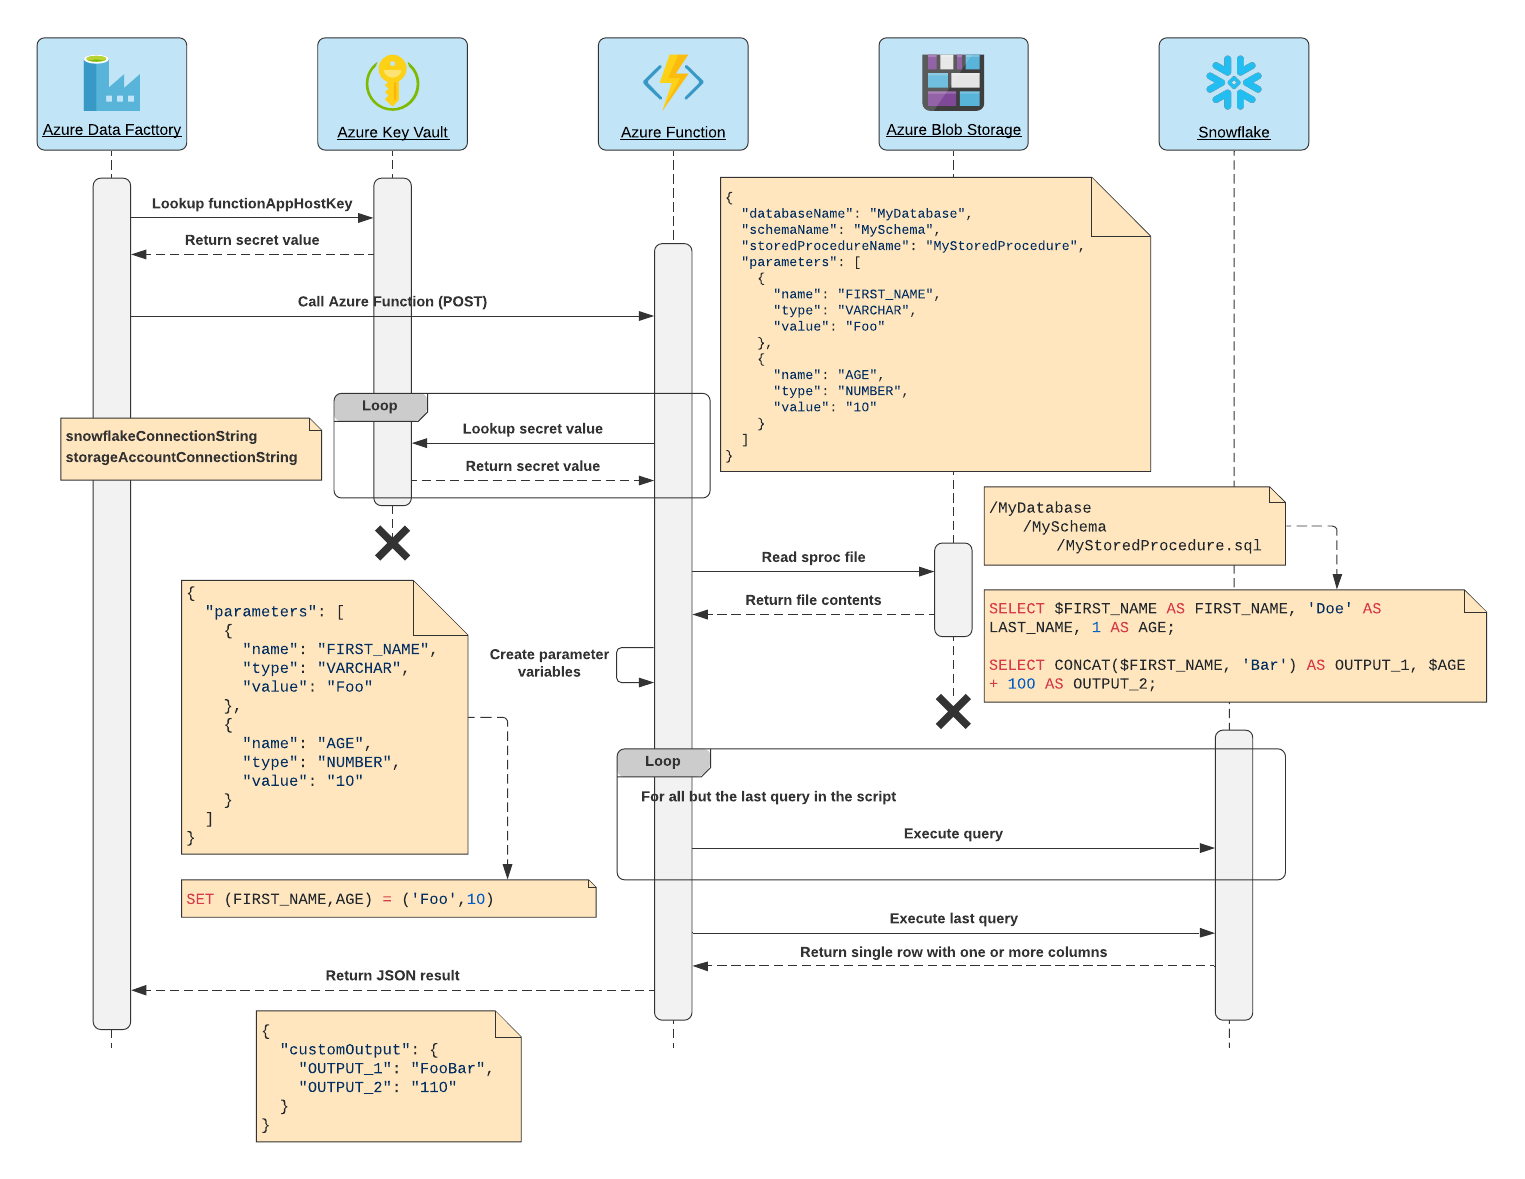
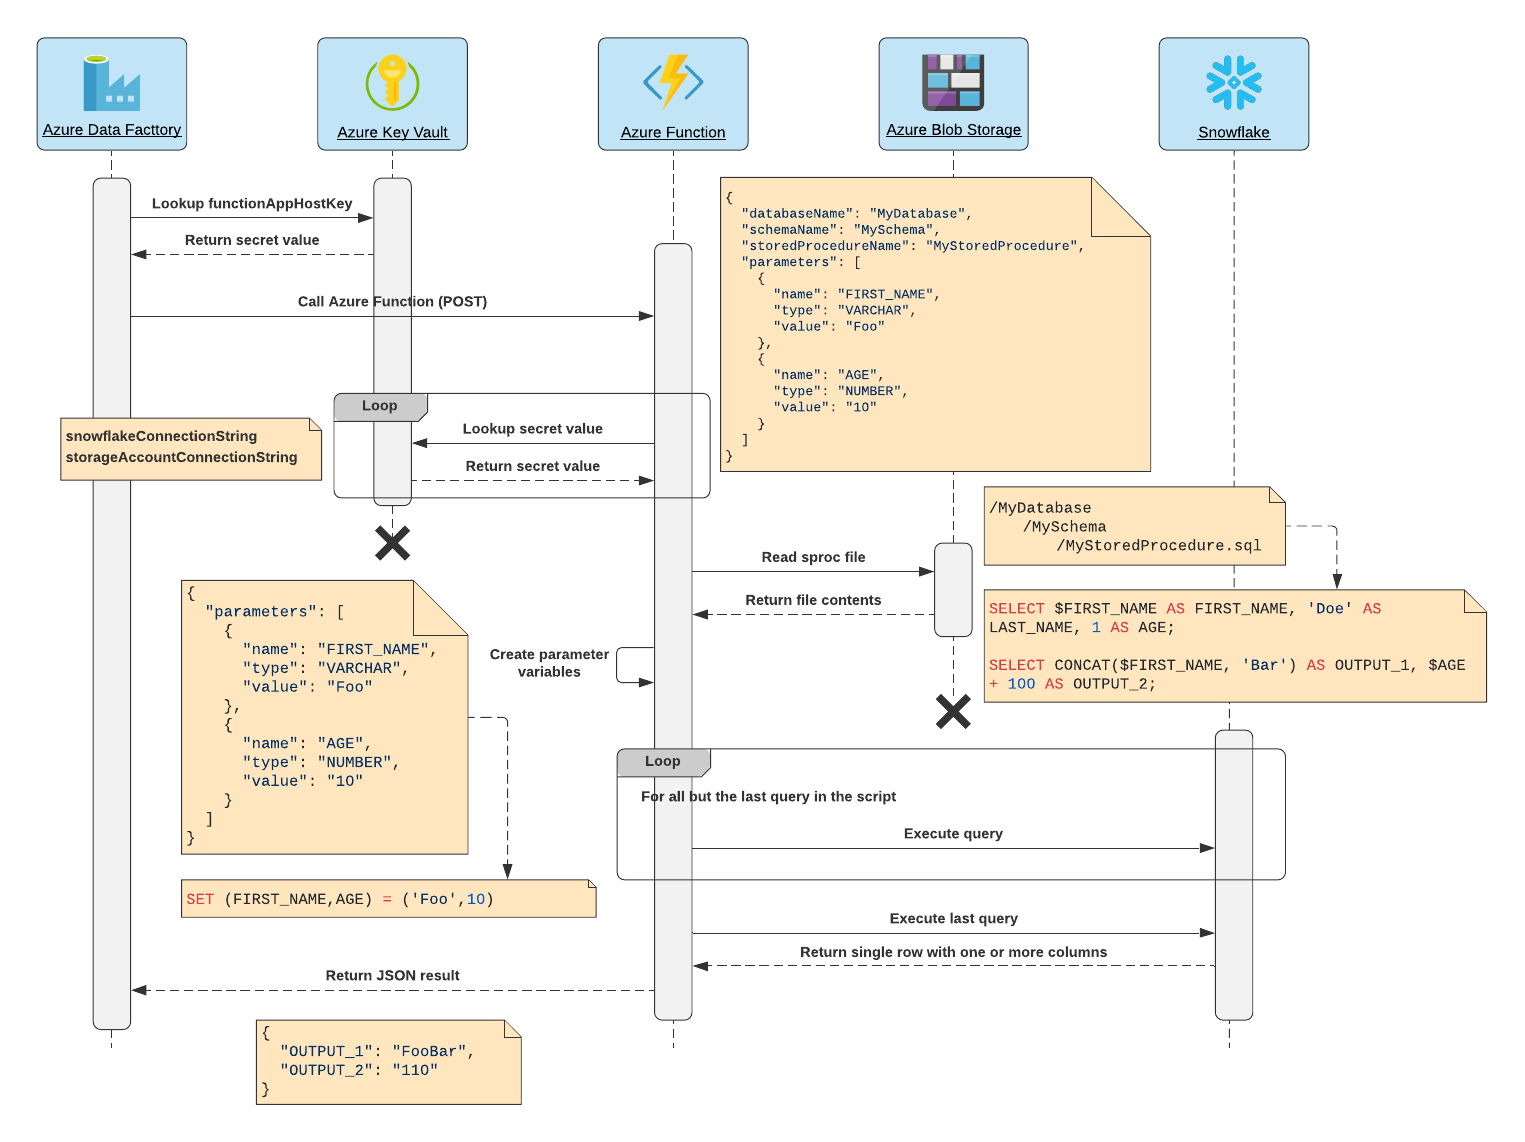
Changed output format to remove customOutput wrapper and made parameter types case insensitive

diff --git a/SnowflakeConnectorAdf.cs b/SnowflakeConnectorAdf.cs
@@ -94,8 +94,7 @@ namespace Snowflake.Connector
             }
 
             // Run the Snowflake SQL commands
-            dynamic output = new JObject();
-            output.customOutput = runSnowflakeSqlCommands(log, snowflakeConnectionString, setVariableCommand, sqlCommands);
+            JObject output = runSnowflakeSqlCommands(log, snowflakeConnectionString, setVariableCommand, sqlCommands);
 
             // Return the result JSON object
             log.LogInformation($"Completed successfully at: {DateTime.Now.ToString()} (UTC).");
@@ -171,7 +170,7 @@ namespace Snowflake.Connector
                 {
                     throw new Exception($"Found invalid parameter name: {parameterName}");
                 }
-                if (!Regex.IsMatch(parameterType, _validParameterTypeRegex))
+                if (!Regex.IsMatch(parameterType, _validParameterTypeRegex, RegexOptions.IgnoreCase))
                 {
                     throw new Exception($"Found invalid parameter type for {parameterName}: {parameterType}");
                 }
@@ -183,7 +182,7 @@ namespace Snowflake.Connector
 
                 // Add a new variable for this parameter
                 snowflakeVariableNames += $"{parameterName},";
-                switch (parameterType)
+                switch (parameterType.ToUpper())
                 {
                     case "VARCHAR":
                         snowflakeVariableValues += $"'{parameterValue}',";
@@ -259,7 +258,9 @@ namespace Snowflake.Connector
                     log.LogInformation($"Running SQL command #{sqlCommands.Length} (final): {cmd.CommandText}");
                     IDataReader reader = cmd.ExecuteReader();
 
-                    // The result should be a table with one row and n columns, format the column/value pairs in JSON
+                    // The final result should be a table with one row and n columns, format the column/value pairs in JSON.
+                    // Warning: If more than one row is returned in the final result this will return the following error:
+                    // "Property with the same name already exists on object."
                     while (reader.Read())
                     {
                         for (int i = 0; i < reader.FieldCount; i++)

diff --git a/README.md b/README.md
@@ -62,10 +62,8 @@ And in this case the connector would return the following JSON object:
 
 ```json
 {
-    "customOutput": {
-        "OUTPUT_1": "FooBar",
-        "OUTPUT_2": "110"
-    }
+    "OUTPUT_1": "FooBar",
+    "OUTPUT_2": "110"
 }
 ```
 
@@ -132,14 +130,13 @@ The columns in the result are pivoted so that each column and value pair becomes
 
 ```json
 {
-    "customOutput": {
-        "OUTPUT_1": "FooBar",
-        "OUTPUT_2": "110"
-    }
+    "OUTPUT_1": "FooBar",
+    "OUTPUT_2": "110"
 }
 ```
 
-*Note*: The return values are attributes of the `customOutput` object. This was originally done to match the behaviour of the *Custom Activity* in ADF and can be easily changed in the connector code.
+*Note:* If more than one row is returned in the final result the connector will fail with the following error: "Property with the same name already exists on object."
+
 
 ### Script Storage
 All "stored procedure" scripts executed by this connector are stored in an Azure Blob Storage account. The container name is configurable but defaults to `storedprocedures`. Within the container all files are organized according to the following convention (all case sensitive):
@@ -204,12 +201,12 @@ And in order to access return values from an ADF activity we make use of the `ac
     {
       "name": "FIRST_NAME",
       "type": "VARCHAR",
-      "value": "@{activity('StoredProcedure1').output.customOutput.OUTPUT_1}"
+      "value": "@{activity('StoredProcedure1').output.OUTPUT_1}"
     },
     {
       "name": "AGE",
       "type": "NUMBER",
-      "value": "@{activity('StoredProcedure1').output.customOutput.OUTPUT_2}"
+      "value": "@{activity('StoredProcedure1').output.OUTPUT_2}"
     }
   ]
 }
